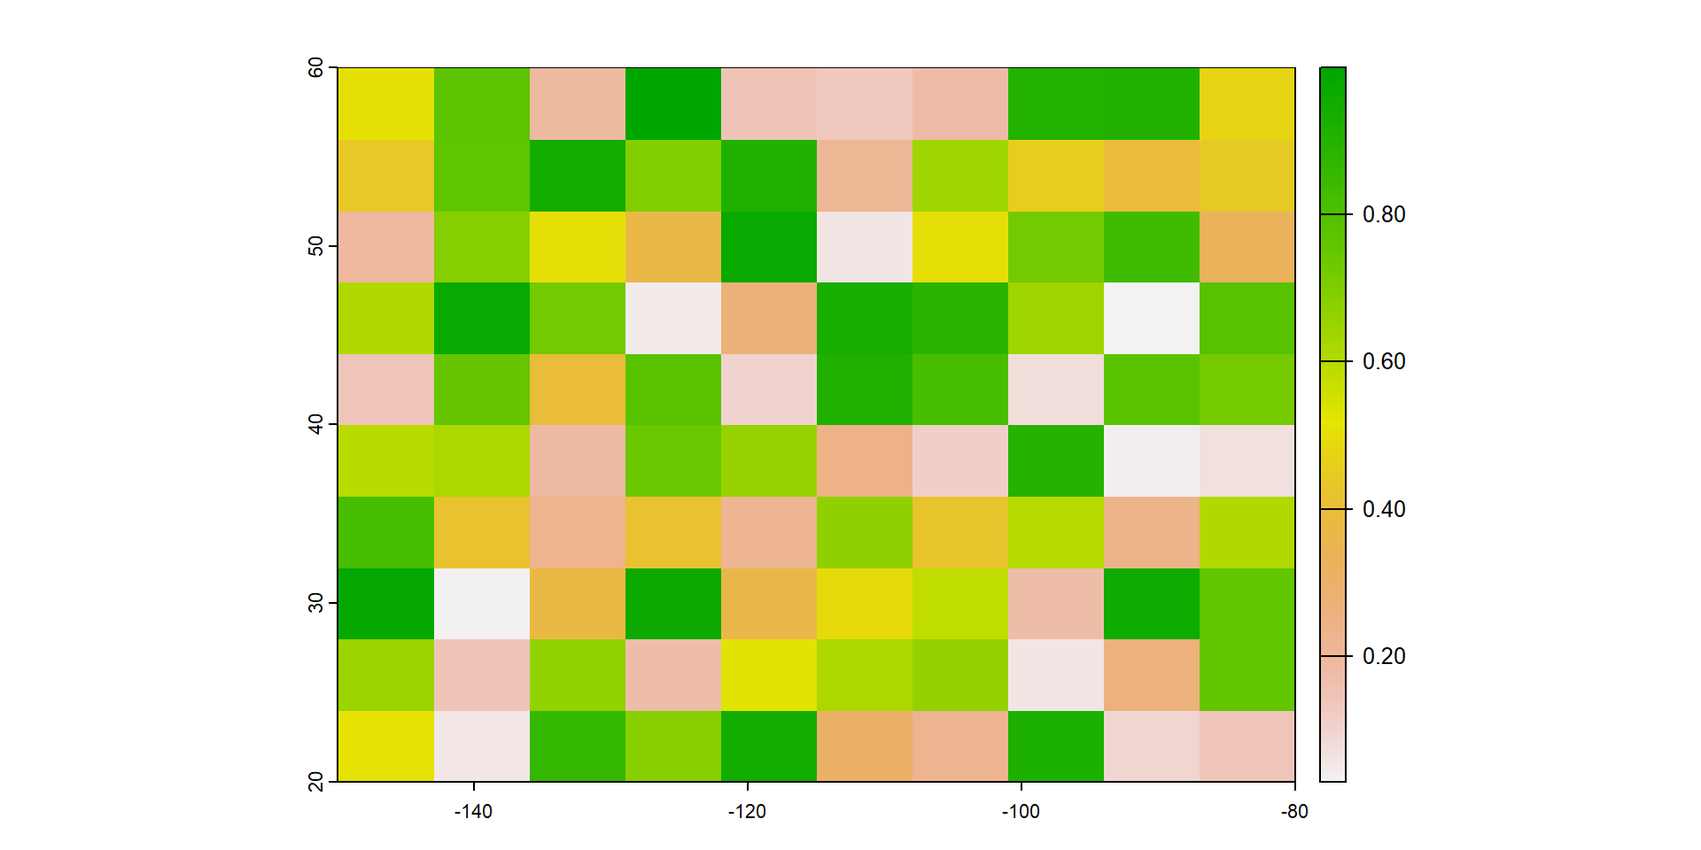
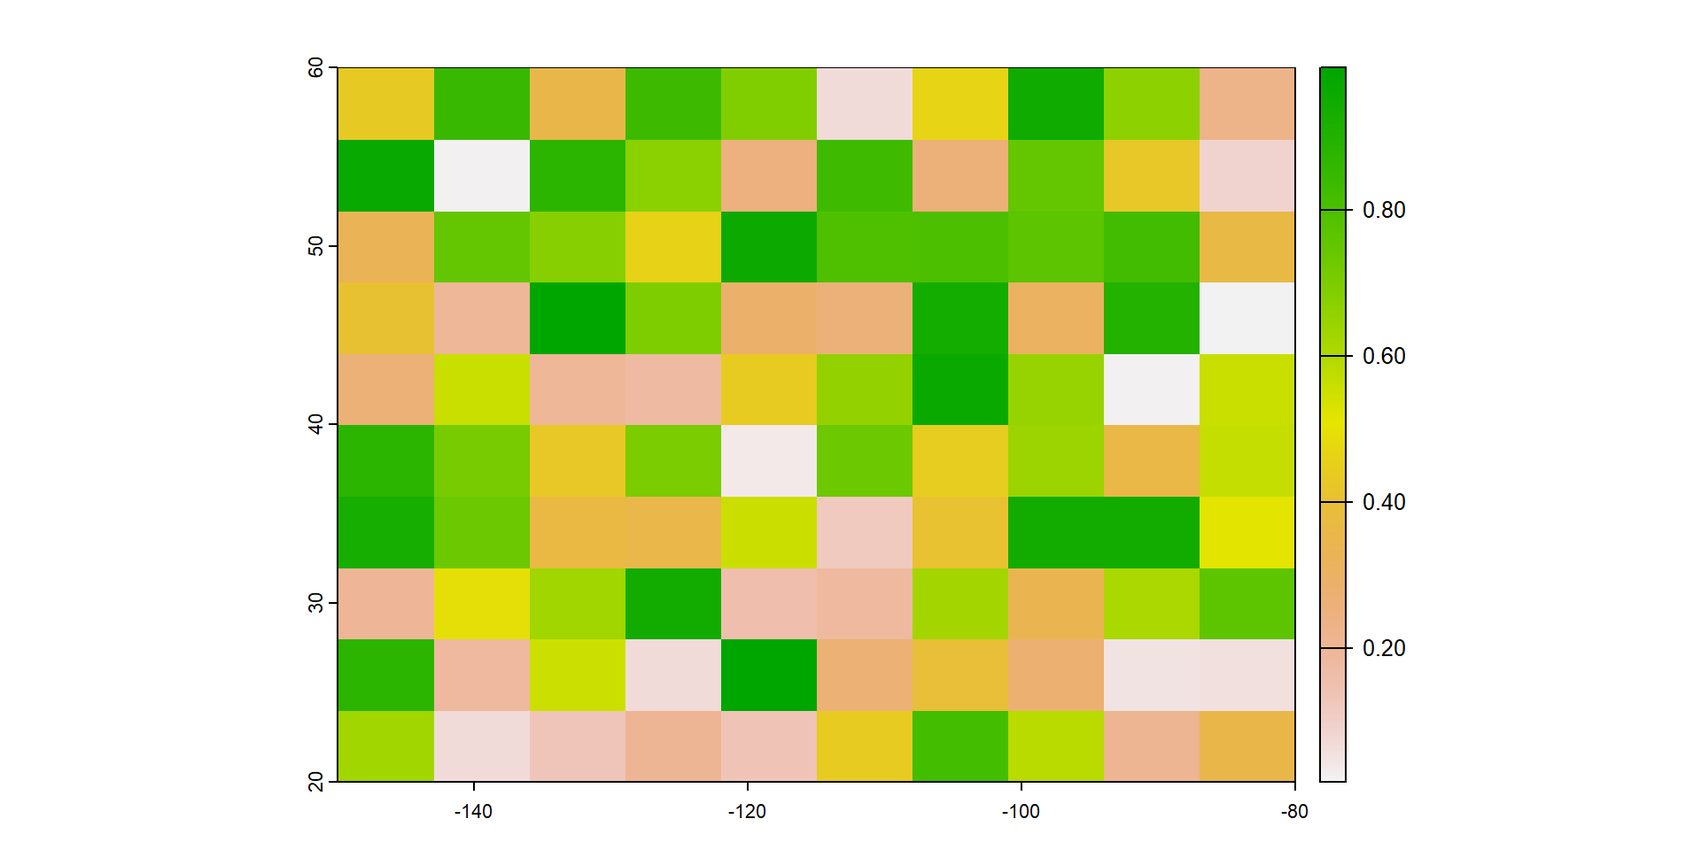
Built site for gh-pages

diff --git a/AEMER-2_Analisis_espacial.html b/AEMER-2_Analisis_espacial.html
@@ -571,9 +571,9 @@ attr(,"package")
  coord. ref. : +proj=longlat +datum=WGS84 +no_defs 
  names       :    ID precip
  type        : &lt;int&gt;  &lt;int&gt;
- values      :     1     70
-                   2     67
-                   3     17</code></pre>
+ values      :     1     12
+                   2     80
+                   3     82</code></pre>
 </div>
 </div>
 </section>
@@ -641,7 +641,7 @@ attr(,"package")
 <img data-src="AEMER-2_Analisis_espacial_files/figure-revealjs/unnamed-chunk-14-1.png" width="960" class="r-stretch"></section>
 <section id="lo-más-normal-es-usar-datos-generados-con-un-sig" class="slide level2">
 <h2>Lo más normal es usar datos generados con un SIG</h2>
-<p>Descargar datos de internet (v.gr. <a href="https://gadm.org">GADM</a>) y cargarlos desde el disco duro</p>
+<p>Descargar datos de Internet (v.gr. <a href="https://gadm.org">GADM</a>) y cargarlos desde el disco duro</p>
 <div class="cell">
 <div class="sourceCode cell-code" id="cb24"><pre class="sourceCode numberSource r number-lines code-with-copy"><code class="sourceCode r"><span id="cb24-1"><a href="#cb24-1"></a>arg <span class="ot">&lt;-</span> <span class="fu">vect</span>(<span class="st">"gadm/gadm41_ARG_1.shp"</span>)</span>
 <span id="cb24-2"><a href="#cb24-2"></a>arg</span></code><button title="Copy to Clipboard" class="code-copy-button"><i class="bi"></i></button></pre></div>
@@ -806,8 +806,8 @@ extent      : -150, -80, 20, 60  (xmin, xmax, ymin, ymax)
 coord. ref. : lon/lat WGS 84 (CRS84) (OGC:CRS84) 
 source(s)   : memory
 name        :      lyr.1 
-min value   : 0.02955298 
-max value   : 0.99892246 </code></pre>
+min value   : 0.01769024 
+max value   : 0.99512654 </code></pre>
 </div>
 </div>
 </section>
@@ -833,7 +833,7 @@ max value   : 0.99892246 </code></pre>
 <p><strong>Important</strong></p>
 </div>
 <div class="callout-content">
-<p>Al operar con datos raster, las operaciones se aplican sobre cada pixel individualmente. Por ello, sólo se pueden realizar operaciones con raster que tienen el mismo área y el mismo tamaño de pixel. El resultado, por tanto, es un nuevo objeto raster con las mismas características geográficas, pero cuyos píxeles tienen los valores resultantes de aplicar las funciones matemáticas.</p>
+<p>Al operar con datos ráster, las operaciones se aplican sobre cada píxel individualmente. Por ello, sólo se pueden realizar operaciones con ráster que tienen el mismo área y el mismo tamaño de píxel. El resultado, por tanto, es un nuevo objeto ráster con las mismas características geográficas, pero cuyos píxeles tienen los valores resultantes de aplicar las funciones matemáticas.</p>
 </div>
 </div>
 </div>
@@ -851,8 +851,8 @@ extent      : -150, -80, 20, 60  (xmin, xmax, ymin, ymax)
 coord. ref. : lon/lat WGS 84 (CRS84) (OGC:CRS84) 
 source(s)   : memory
 names       :      lyr.1,        lyr.1,     lyr.1 
-min values  : 0.02955298, 0.0008733785, 0.1719098 
-max values  : 0.99892246, 0.9978460862, 0.9994611 </code></pre>
+min values  : 0.01769024, 0.0003129445, 0.1330047 
+max values  : 0.99512654, 0.9902768257, 0.9975603 </code></pre>
 </div>
 </div>
 </section>
@@ -876,8 +876,8 @@ extent      : -150, -80, 20, 60  (xmin, xmax, ymin, ymax)
 coord. ref. : lon/lat WGS 84 (CRS84) (OGC:CRS84) 
 source(s)   : memory
 name        :        lyr.1 
-min value   : 0.0008733785 
-max value   : 0.9978460862 </code></pre>
+min value   : 0.0003129445 
+max value   : 0.9902768257 </code></pre>
 </div>
 </div>
 </section>
@@ -938,10 +938,10 @@ dimensions  : 4455, 2454, 12  (nrow, ncol, nlyr)
 resolution  : 871.5251, 871.5251  (x, y)
 extent      : -18378.29, 2120344, 3739870, 7622514  (xmin, xmax, ymin, ymax)
 coord. ref. : WGS 84 / UTM zone 19S (EPSG:32719) 
-source      : spat_66d02a5b55ee_26320.tif 
+source      : spat_5cbc474133d_23740.tif 
 names       : ARG_w~avg_1, ARG_w~avg_2, ARG_w~avg_3, ARG_w~avg_4, ARG_w~avg_5, ARG_w~avg_6, ... 
-min values  :   -10.05807,   -10.73748,   -11.50022,   -13.56296,   -15.82996,   -19.13990, ... 
-max values  :    29.20000,    28.40000,    27.30000,    25.00000,    22.20000,    20.98255, ... </code></pre>
+min values  :   -10.05951,   -10.72017,    -11.4837,   -13.54722,   -15.83121,   -19.14115, ... 
+max values  :    29.20000,    28.40000,     27.3000,    25.00000,    22.20000,    20.97471, ... </code></pre>
 </div>
 </div>
 </section>
@@ -996,10 +996,10 @@ dimensions  : 4853, 2673, 12  (nrow, ncol, nlyr)
 resolution  : 800, 800  (x, y)
 extent      : -18378.29, 2120022, 3739870, 7622270  (xmin, xmax, ymin, ymax)
 coord. ref. : WGS 84 / UTM zone 19S (EPSG:32719) 
-source      : spat_66d05d575ef_26320.tif 
+source      : spat_5cbc64b422db_23740.tif 
 names       : ARG_w~avg_1, ARG_w~avg_2, ARG_w~avg_3, ARG_w~avg_4, ARG_w~avg_5, ARG_w~avg_6, ... 
 min values  :   -10.77633,   -11.47463,   -12.17463,   -14.20292,   -16.40292,   -19.51049, ... 
-max values  :    29.20000,    28.40000,    27.30000,    25.00000,    22.20000,    20.95158, ... </code></pre>
+max values  :    29.20000,    28.40000,    27.30000,    25.00000,    22.20000,    20.94339, ... </code></pre>
 </div>
 </div>
 </section>
@@ -1351,20 +1351,27 @@ max values  :    29.20000,    28.40000,    27.30000,    25.00000,    22.20000,  
 <div class="sourceCode cell-code" id="cb102"><pre class="sourceCode numberSource r number-lines code-with-copy"><code class="sourceCode r"><span id="cb102-1"><a href="#cb102-1"></a>pnts_arg <span class="ot">&lt;-</span> <span class="fu">extract</span>(arg, pnts)</span>
 <span id="cb102-2"><a href="#cb102-2"></a><span class="fu">head</span>(pnts_arg)</span></code><button title="Copy to Clipboard" class="code-copy-button"><i class="bi"></i></button></pre></div>
 <div class="cell-output cell-output-stdout">
-<pre><code>  id.y    NAME_1    GID_1 GID_0   COUNTRY VARNAME_1 NL_NAME_1    TYPE_1
-1    1   Tucumán ARG.24_1   ARG Argentina   Tucumão      &lt;NA&gt; Provincia
-2    2  La Rioja ARG.12_1   ARG Argentina      &lt;NA&gt;      &lt;NA&gt; Provincia
-3    3  Misiones ARG.14_1   ARG Argentina   Missões      &lt;NA&gt; Provincia
-4    4 Río Negro ARG.16_1   ARG Argentina      &lt;NA&gt;      &lt;NA&gt; Provincia
-5    5   Formosa  ARG.9_1   ARG Argentina      &lt;NA&gt;      &lt;NA&gt; Provincia
-6    6    Chubut  ARG.4_1   ARG Argentina      &lt;NA&gt;      &lt;NA&gt; Provincia
-  ENGTYPE_1 CC_1 HASC_1 ISO_1 perimetro poblacion
-1  Province &lt;NA&gt;  AR.TM  &lt;NA&gt;  814874.3   1731820
-2  Province &lt;NA&gt;  AR.LR  AR-F 1613964.8    383865
-3  Province &lt;NA&gt;  AR.MN  AR-N 1272355.6   1278873
-4  Province &lt;NA&gt;  AR.RN  &lt;NA&gt; 2829645.1    750768
-5  Province &lt;NA&gt;  AR.FM  AR-P 1887284.9    607419
-6  Province &lt;NA&gt;  AR.CH  AR-U 4072813.0    592621</code></pre>
+<pre><code>  id.y              NAME_1    GID_1 GID_0   COUNTRY
+1    1             Tucumán ARG.24_1   ARG Argentina
+2    2           Río Negro ARG.16_1   ARG Argentina
+3    3 Santiago del Estero ARG.22_1   ARG Argentina
+4    4             Córdoba  ARG.6_1   ARG Argentina
+5    5    Tierra del Fuego ARG.23_1   ARG Argentina
+6    6             Formosa  ARG.9_1   ARG Argentina
+                        VARNAME_1 NL_NAME_1    TYPE_1 ENGTYPE_1 CC_1 HASC_1
+1                         Tucumão      &lt;NA&gt; Provincia  Province &lt;NA&gt;  AR.TM
+2                            &lt;NA&gt;      &lt;NA&gt; Provincia  Province &lt;NA&gt;  AR.RN
+3                            &lt;NA&gt;      &lt;NA&gt; Provincia  Province &lt;NA&gt;  AR.SE
+4                         Cordova      &lt;NA&gt; Provincia  Province &lt;NA&gt;  AR.CB
+5 Feuerland|Terra del Fuoco|Terre      &lt;NA&gt; Provincia  Province &lt;NA&gt;  AR.TF
+6                            &lt;NA&gt;      &lt;NA&gt; Provincia  Province &lt;NA&gt;  AR.FM
+  ISO_1 perimetro poblacion
+1  &lt;NA&gt;  814874.3   1731820
+2  &lt;NA&gt; 2829645.1    750768
+3  AR-G 1709915.4   1060906
+4  &lt;NA&gt; 1898966.0   3840905
+5  AR-V 2035550.6    185732
+6  AR-P 1887284.9    607419</code></pre>
 </div>
 </div>
 <div class="cell">
@@ -1373,11 +1380,11 @@ max values  :    29.20000,    28.40000,    27.30000,    25.00000,    22.20000,  
 <div class="cell-output cell-output-stdout">
 <pre><code>  id.y Zona
 1    1   NA
-2    2   NA
+2    2    3
 3    3   NA
-4    4    4
+4    4    2
 5    5   NA
-6    6    3</code></pre>
+6    6   NA</code></pre>
 </div>
 </div>
 </section>
@@ -1388,33 +1395,33 @@ max values  :    29.20000,    28.40000,    27.30000,    25.00000,    22.20000,  
 <span id="cb106-2"><a href="#cb106-2"></a><span class="fu">head</span>(pnts_tavg)</span></code><button title="Copy to Clipboard" class="code-copy-button"><i class="bi"></i></button></pre></div>
 <div class="cell-output cell-output-stdout">
 <pre><code>  ID ARG_wc2.1_30s_tavg_1 ARG_wc2.1_30s_tavg_2 ARG_wc2.1_30s_tavg_3
-1  1                 24.3                 23.8                 21.1
-2  2                  1.3                  0.7                 -0.2
-3  3                 25.8                 25.4                 23.8
-4  4                 21.5                 20.8                 18.3
-5  5                 27.4                 26.7                 25.2
-6  6                 17.7                 17.4                 14.0
+1  1                 19.3                 18.5                 16.7
+2  2                 19.1                 18.2                 15.1
+3  3                 27.0                 26.0                 23.8
+4  4                 19.9                 18.9                 16.7
+5  5                  8.6                  8.3                  6.7
+6  6                 28.1                 27.5                 25.5
   ARG_wc2.1_30s_tavg_4 ARG_wc2.1_30s_tavg_5 ARG_wc2.1_30s_tavg_6
-1                 18.8                 16.1                 12.7
-2                 -2.1                 -3.7                 -5.9
-3                 20.9                 17.6                 15.6
-4                 14.7                 10.7                  7.8
-5                 22.0                 19.2                 16.9
-6                  9.9                  5.8                  2.9
+1                 13.6                 10.9                  7.9
+2                 10.4                  6.7                  3.4
+3                 21.0                 17.3                 14.4
+4                 13.2                 10.1                  7.0
+5                  4.7                  2.3                  0.3
+6                 22.6                 19.9                 17.8
   ARG_wc2.1_30s_tavg_7 ARG_wc2.1_30s_tavg_8 ARG_wc2.1_30s_tavg_9
-1                 14.3                 15.2                 18.3
-2                 -6.0                 -5.7                 -4.2
-3                 15.5                 17.0                 18.3
-4                  7.2                  8.7                 11.0
-5                 16.5                 17.9                 19.8
-6                  3.0                  4.6                  7.5
+1                  8.3                 10.2                 13.1
+2                  3.1                  5.1                  7.7
+3                 14.3                 16.0                 20.0
+4                  6.5                  8.4                 10.9
+5                  0.0                  1.0                  2.7
+6                 17.1                 19.5                 21.4
   ARG_wc2.1_30s_tavg_10 ARG_wc2.1_30s_tavg_11 ARG_wc2.1_30s_tavg_12
-1                  20.2                  23.2                  23.7
-2                  -3.3                  -1.1                   0.6
-3                  21.0                  22.9                  25.0
-4                  14.2                  17.5                  20.0
-5                  22.6                  24.3                  26.5
-6                  10.9                  14.0                  16.1</code></pre>
+1                  15.4                  17.7                  18.9
+2                  11.4                  15.1                  17.9
+3                  22.5                  24.8                  26.5
+4                  14.0                  16.7                  19.3
+5                   4.8                   6.7                   7.8
+6                  23.5                  25.1                  27.3</code></pre>
 </div>
 </div>
 <div class="callout callout-warning callout-titled callout-style-default">
@@ -1426,7 +1433,7 @@ max values  :    29.20000,    28.40000,    27.30000,    25.00000,    22.20000,  
 <p><strong>Warning</strong></p>
 </div>
 <div class="callout-content">
-<p>Fijaros que extráe un valor de cada capa del ráster stack</p>
+<p>Fijaros que extrae un valor de cada capa del ráster stack</p>
 </div>
 </div>
 </div>

diff --git a/AEMER-1-Ejercicios.html b/AEMER-1-Ejercicios.html
@@ -206,7 +206,7 @@ Nota
 </div>
 </div>
 <div class="callout-body-container callout-body">
-<p>Los ejercicios tendréis que entregarlos para la evaluación del curso. Para ello, crea un script de R con RStudio. Ponle el nombre <code>ejercicios_t1_[nombre]_[apellido].R</code>. Dicho script deberá estar organizado con comentarios en castellano (poniendo una almohadilla <code>#</code> delante) y justo detrás el código necesario para realizar el ejercicio (ver ejemplo debajo). Además, si el ejercicio pide reflexionar sobre el resultado use los comentarios (con la <code>#</code>) para indicar sus reflexiones debajo del código. Una vez los tengáis completos podéis mandarmelos por email.</p>
+<p>Los ejercicios tendréis que entregarlos para la evaluación del curso. Para ello, crea un script de R con RStudio. Ponle el nombre <code>ejercicios_t1_[nombre]_[apellido].R</code>. Dicho script deberá estar organizado con comentarios en castellano (poniendo una almohadilla <code>#</code> delante) y justo detrás el código necesario para realizar el ejercicio (ver ejemplo debajo). Además, si el ejercicio pide reflexionar sobre el resultado use los comentarios (con la <code>#</code>) para indicar sus reflexiones debajo del código. Una vez los tengáis completos podéis mandármelos por email.</p>
 <div class="cell">
 <div class="sourceCode cell-code" id="cb1"><pre class="sourceCode r code-with-copy"><code class="sourceCode r"><span id="cb1-1"><a href="#cb1-1" aria-hidden="true" tabindex="-1"></a><span class="co"># Ejercicio 1.</span></span>
 <span id="cb1-2"><a href="#cb1-2" aria-hidden="true" tabindex="-1"></a><span class="co"># Parte 1</span></span>
@@ -223,11 +223,11 @@ Nota
 <section id="funciones-útiles" class="level2">
 <h2 class="anchored" data-anchor-id="funciones-útiles">Funciones útiles</h2>
 <p><strong><code>c()</code></strong></p>
-<p>Concatena y combina objetos en el orden de inclusion, devolviendo un objeto de una dimension (vectores or listas). Devuelve un objeto del mismo tipo (vector or lista).</p>
+<p>Concatena y combina objetos en el orden de inclusión, devolviendo un objeto de una dimensión (vectores o listas). Devuelve un objeto del mismo tipo (vector o lista).</p>
 <p><strong><code>seq(from, to, by)</code></strong></p>
-<p>Crea una secuencia numérica. Los argumentos <code>from</code>, <code>to</code> y <code>by</code> establecen el valor de inicio, fin e incremento de la secuencia numérica. La función también acepta el parámetro <code>length.out</code>, que dividirá la secuencia numerica entre el valor de inicio y el de fin uniformemente en el número de valores indicados por <code>length.out</code>. Los argumentos <code>from</code>, <code>to</code> y <code>by</code> por defecto tienen valor en 1. La función devuelve un vector.</p>
+<p>Crea una secuencia numérica. Los argumentos <code>from</code>, <code>to</code> y <code>by</code> establecen el valor de inicio, fin e incremento de la secuencia numérica. La función también acepta el parámetro <code>length.out</code>, que dividirá la secuencia numérica entre el valor de inicio y el de fin uniformemente en el número de valores indicados por <code>length.out</code>. Los argumentos <code>from</code>, <code>to</code> y <code>by</code> por defecto tienen valor en 1. La función devuelve un vector.</p>
 <p><strong><code>length(x)</code></strong></p>
-<p>Devuelve el número de elementos en un objeto (numeric, character, factor or list).</p>
+<p>Devuelve el número de elementos en un objeto (numeric, character, factor o list).</p>
 </section>
 <section id="ejercicios" class="level2">
 <h2 class="anchored" data-anchor-id="ejercicios">Ejercicios</h2>
@@ -279,7 +279,7 @@ Nota
 <p><strong><code>matrix(data, nrow, ncol)</code></strong></p>
 <p>Genera una matriz, donde <code>data</code> son los datos que se colocan en dicha matriz que se organizan usando un número de filas = <code>nrow</code> y un número de columnas = <code>ncol</code>. El argumento <code>data</code> puede ser un número único, NA (sin dato o dato en blanco) o un vector.</p>
 <p><strong><code>rnorm(n, mean, sd)</code></strong></p>
-<p>Devuelve un vector de longitud <code>n</code>, en el que cada elemento es seleccionado aleatoriamente de una distribución normal con media = <code>mean</code> y desviación estandar = <code>sd</code>.</p>
+<p>Devuelve un vector de longitud <code>n</code>, en el que cada elemento es seleccionado aleatoriamente de una distribución normal con media = <code>mean</code> y desviación estándar = <code>sd</code>.</p>
 </section>
 <section id="ejercicios-1" class="level2">
 <h2 class="anchored" data-anchor-id="ejercicios-1">Ejercicios</h2>
@@ -322,7 +322,7 @@ Nota
 </blockquote>
 <p><strong>3. Usa la función <code>which()</code> para determinar qué sitios tienen al menos 10 individuos de <em>Lupinus bicolor</em>. Usa la función <code>which()</code> para determinar qué especies tienen una abundancia de al menos 5 en el <em>Site5</em>.</strong></p>
 <p><strong>4. Crea una nueva matriz llamada “presencia” donde cada elemento de “presencia” es 1, si el valor correspondiente de “abundancia” es mayor que 0, y 0 en el caso contrario.</strong></p>
-<p><strong>5. Usando la matriz “presencia” que creastes y la función <code>apply()</code>, calcula la riqueza de especies (i.e.&nbsp;el número de especies) de cada sitio.</strong></p>
+<p><strong>5. Usando la matriz “presencia” que creaste y la función <code>apply()</code>, calcula la riqueza de especies (i.e.&nbsp;el número de especies) de cada sitio.</strong></p>
 <p><strong>6. Escribe la matriz “presencia” que creaste en un archivo “Presencia.csv”.</strong></p>
 </section>
 </section>
@@ -347,7 +347,7 @@ Nota
 <blockquote class="blockquote">
 <p>Aquí deberás usar la función <code>mean</code> para calcular la media antes.</p>
 </blockquote>
-<p><strong>2. Crea dos variables correlacionadas “x” e “y”, usando <code>x &lt;- rnorm (200)</code> e <code>y = x + rnorm (200)</code>. Dibuja “x” vs.&nbsp;“y” y juegua con los parámetros de trazado. Usa la <code>abline</code> para incluir una recta de regresión entre las dos variables.</strong></p>
+<p><strong>2. Crea dos variables correlacionadas “x” e “y”, usando <code>x &lt;- rnorm (200)</code> e <code>y = x + rnorm (200)</code>. Dibuja “x” vs.&nbsp;“y” y juega con los parámetros de trazado. Usa la <code>abline</code> para incluir una recta de regresión entre las dos variables.</strong></p>
 <p><strong>3. Genera un nuevo conjunto de datos “w” correlacionado con “x”, usando <code>w &lt;- 2*x * rnorm(200)</code>. Añade esta nuevo conjunto de datos al gráfico anterior pero cambiando el color para que se distingan bien los datos de “y” y “w”. Además, añade otra recta de regresión entre “w” y “x”.</strong></p>
 
 

diff --git a/AEMER-2_Ejercicios.html b/AEMER-2_Ejercicios.html
@@ -201,7 +201,7 @@ Nota
 </div>
 </div>
 <div class="callout-body-container callout-body">
-<p>Los ejercicios tendréis que entregarlos para la evaluación del curso. Para ello, crea un script de R con RStudio. Ponle el nombre <code>ejercicios_t2_[nombre]_[apellido].R</code>. Dicho script deberá estar organizado con comentarios en castellano (poniendo una almohadilla <code>#</code> delante) y justo detrás el código necesario para realizar el ejercicio (ver ejemplo debajo). Además, si el ejercicio pide reflexionar sobre el resultado use los comentarios (con la <code>#</code>) para indicar sus reflexiones debajo del código. Una vez los tengáis completos podéis mandarmelos por email.</p>
+<p>Los ejercicios tendréis que entregarlos para la evaluación del curso. Para ello, crea un script de R con RStudio. Ponle el nombre <code>ejercicios_t2_[nombre]_[apellido].R</code>. Dicho script deberá estar organizado con comentarios en castellano (poniendo una almohadilla <code>#</code> delante) y justo detrás el código necesario para realizar el ejercicio (ver ejemplo debajo). Además, si el ejercicio pide reflexionar sobre el resultado use los comentarios (con la <code>#</code>) para indicar sus reflexiones debajo del código. Una vez los tengáis completos podéis mandármelos por email.</p>
 <div class="cell">
 <div class="sourceCode cell-code" id="cb1"><pre class="sourceCode r code-with-copy"><code class="sourceCode r"><span id="cb1-1"><a href="#cb1-1" aria-hidden="true" tabindex="-1"></a><span class="co"># Ejercicio 1.</span></span>
 <span id="cb1-2"><a href="#cb1-2" aria-hidden="true" tabindex="-1"></a><span class="co"># Parte 1</span></span>
@@ -222,7 +222,7 @@ Nota
 <p><strong><code>gadm()</code></strong></p>
 <p>Esta función del paquete <code>geodata</code> se usa para cargar datos de los límites administrativos de los distintos países del planeta.</p>
 <p><strong><code>project()</code></strong></p>
-<p>Proyecta las coordenadas de los objetos espaciales a un sistema de coordenadas diferentes. Para conseguir los códigos EPSG de distintos sistemas de proyeccion podéis usar la siguiente página: https://epsg.io/</p>
+<p>Proyecta las coordenadas de los objetos espaciales a un sistema de coordenadas diferentes. Para conseguir los códigos EPSG de distintos sistemas de proyección podéis usar la siguiente página: https://epsg.io/</p>
 <p><strong><code>[]</code></strong></p>
 <p>Los corchetes sirven para extraer elementos de ciertas posiciones en los objetos de R. Se pueden usar también con los objetos espaciales</p>
 <p><strong><code>==</code></strong></p>
@@ -249,7 +249,7 @@ Nota
 <div class="sourceCode cell-code" id="cb3"><pre class="sourceCode r code-with-copy"><code class="sourceCode r"><span id="cb3-1"><a href="#cb3-1" aria-hidden="true" tabindex="-1"></a>ba_utm <span class="ot">&lt;-</span> <span class="fu">project</span>(ba, <span class="st">"epsg:32721"</span>)</span></code><button title="Copiar al portapapeles" class="code-copy-button"><i class="bi"></i></button></pre></div>
 </details>
 </div>
-<p><strong>3. Guarda el objeto vectorial de Buenos Aires con las coordenadas en UTM21s como un fichero geopackge nuevo, llamado <code>BuenosAires.gpkg</code></strong></p>
+<p><strong>3. Guarda el objeto vectorial de Buenos Aires con las coordenadas en UTM21s como un fichero geopackage nuevo, llamado <code>BuenosAires.gpkg</code></strong></p>
 <div class="cell">
 <details>
 <summary>Solución (no mirar de primeras)</summary>
@@ -275,7 +275,7 @@ Nota
 <section id="funciones-útiles-1" class="level2">
 <h2 class="anchored" data-anchor-id="funciones-útiles-1">Funciones útiles</h2>
 <p><strong><code>rast()</code></strong></p>
-<p>Se utiliza para generar o cargar datos raster. Es muy flexible también en su forma de usarse, por lo que tendrás que tener cuidad con los argumentos que usas con ella.</p>
+<p>Se utiliza para generar o cargar datos ráster. Es muy flexible también en su forma de usarse, por lo que tendrás que tener cuidad con los argumentos que usas con ella.</p>
 <p><strong><code>worldclim_country()</code></strong></p>
 <p>Esta función del paquete <code>geodata</code> se usa para cargar datos climáticos de cualquier país del planeta. Los datos proceden del proyecto <a href="https://worldclim.org">WorldClim</a>.</p>
 <p><strong><code>project()</code></strong></p>
@@ -301,7 +301,7 @@ Nota
 <span id="cb7-2"><a href="#cb7-2" aria-hidden="true" tabindex="-1"></a><span class="fu">names</span>(arg_bio) <span class="ot">&lt;-</span> <span class="fu">paste0</span>(<span class="st">"bio"</span>, <span class="dv">1</span><span class="sc">:</span><span class="dv">19</span>)</span></code><button title="Copiar al portapapeles" class="code-copy-button"><i class="bi"></i></button></pre></div>
 </details>
 </div>
-<p><strong>3. Revisa el CRS de los datos que has descargado. ¿Coinciden con los datos que has generado como resultado de los ejercicios de la Parte 1? Si no es así, proyecta los datos raster para que coincidan con esos datos y mantengan una resolución exacta dde 1000 metros.</strong></p>
+<p><strong>3. Revisa el CRS de los datos que has descargado. ¿Coinciden con los datos que has generado como resultado de los ejercicios de la Parte 1? Si no es así, proyecta los datos raster para que coincidan con esos datos y mantengan una resolución exacta de 1000 metros.</strong></p>
 <div class="cell">
 <details>
 <summary>Solución (no mirar de primeras)</summary>
